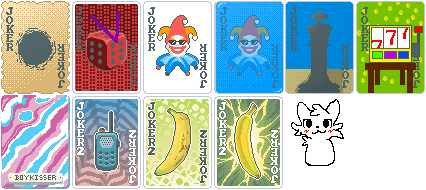
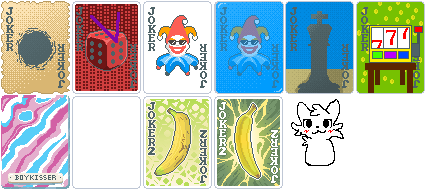
final commit
applesauce

Changed region(s): [[0.1526, 0.5, 0.3357, 1.0]]

diff --git a/README.md b/README.md
@@ -1,5 +1,14 @@
-# Balatro Mod
+# Typ0's Random Jokers
+This mod adds a few jokers made by me and a few friends over the span of a few days
 
-WIP 
-
-currentlly just the example mod
+## CHANGELOG
+### Added
+ - Boykisser: adds a kiss seal to a king or jack
+ - Cool Jimbo: +8 mult
+ - Cooler Jimbo: +8 mult unless cool jimbo is on the left then it does x4 mult
+ - Triple Sevens: if you play 3 7s then get a random amount of x mult
+ - Black Spot: 4/10 chance to destroy all played cards 
+ - Evil Oops All Sixes: Halves all odds
+ - Royal Strategy: Every played king gives X1.5 mult 
+ -   :  
+ - Kiss Seal: retriggers once and gives +2 mult
